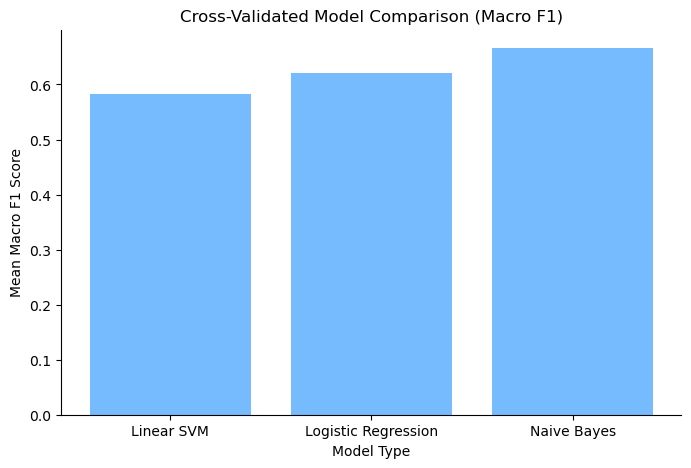
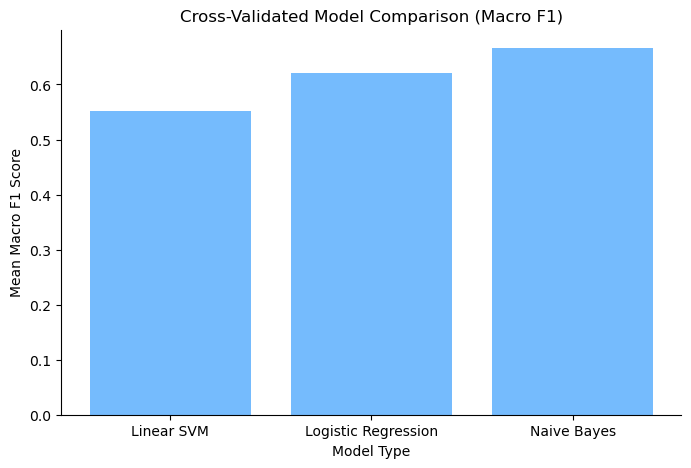
edited something

Changed region(s): [[0.1216, 0.1795, 0.3647, 0.2393]]

diff --git a/pipeline/pipeline.md b/pipeline/pipeline.md
@@ -216,7 +216,7 @@ logging.info("Forming features of word_count, sentence_count, avg_sentence_lengt
 print("Rows in joined dataframe:", len(df))
 logging.info(f"Rows in joined dataframe: {len(df)}")
 print("Unique essay IDs in joined df:", df["essay_id"].nunique())
-logging.info(f"Unique essay IDs in joined df: {df["essay_id"].nunique()}")
+logging.info(f"Unique essay IDs in joined df: {df['essay_id'].nunique()}")
 
 
 # how many missing essays are there? (0)
@@ -234,10 +234,10 @@ logging.info(f"Missing essay foreign key matches: {missing_essays}")
 
 # printing value counts of label names vs id
 print("\n", df["label_name"].value_counts())
-logging.info(f"Count of label names unique: {df["label_name"].value_counts()}")
+logging.info(f"Count of label names unique: {df['label_name'].value_counts()}")
 
 print("\n", df["label_id"].value_counts(normalize=True))
-logging.info(f"Count of label ids unique: {df["label_id"].value_counts(normalize=True)}")
+logging.info(f"Count of label ids unique: {df['label_id'].value_counts(normalize=True)}")
 ```
 
     Rows in joined dataframe: 1378
@@ -483,7 +483,7 @@ logging.info(f"CV results: {cv_results}")
 ```
 
                      Model  Mean F1 Macro   Std Dev
-    0           Linear SVM       0.582422  0.186749
+    0           Linear SVM       0.551825  0.236706
     1  Logistic Regression       0.620596  0.179358
     2          Naive Bayes       0.666213  0.236023
 
